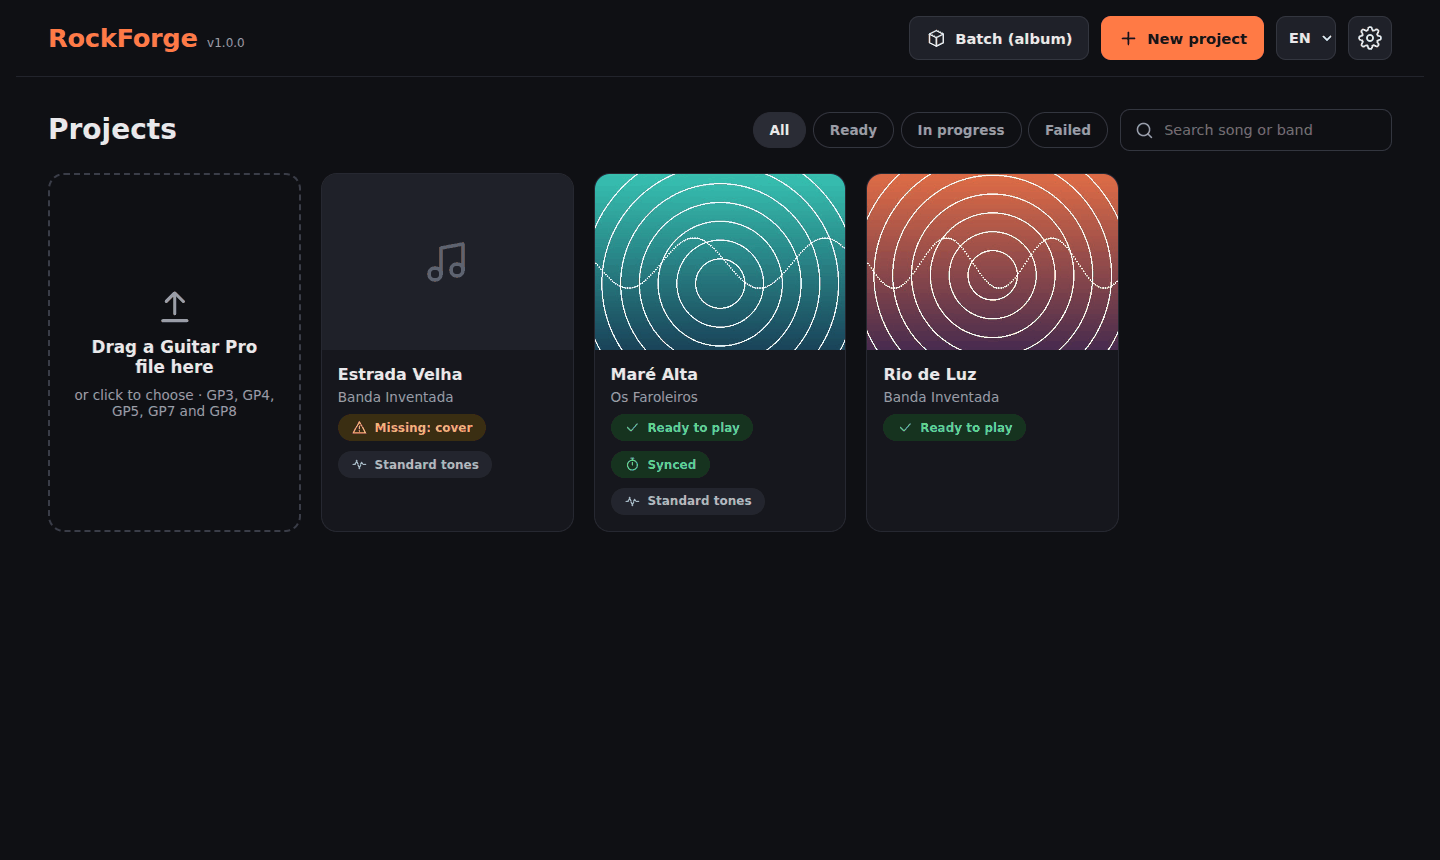
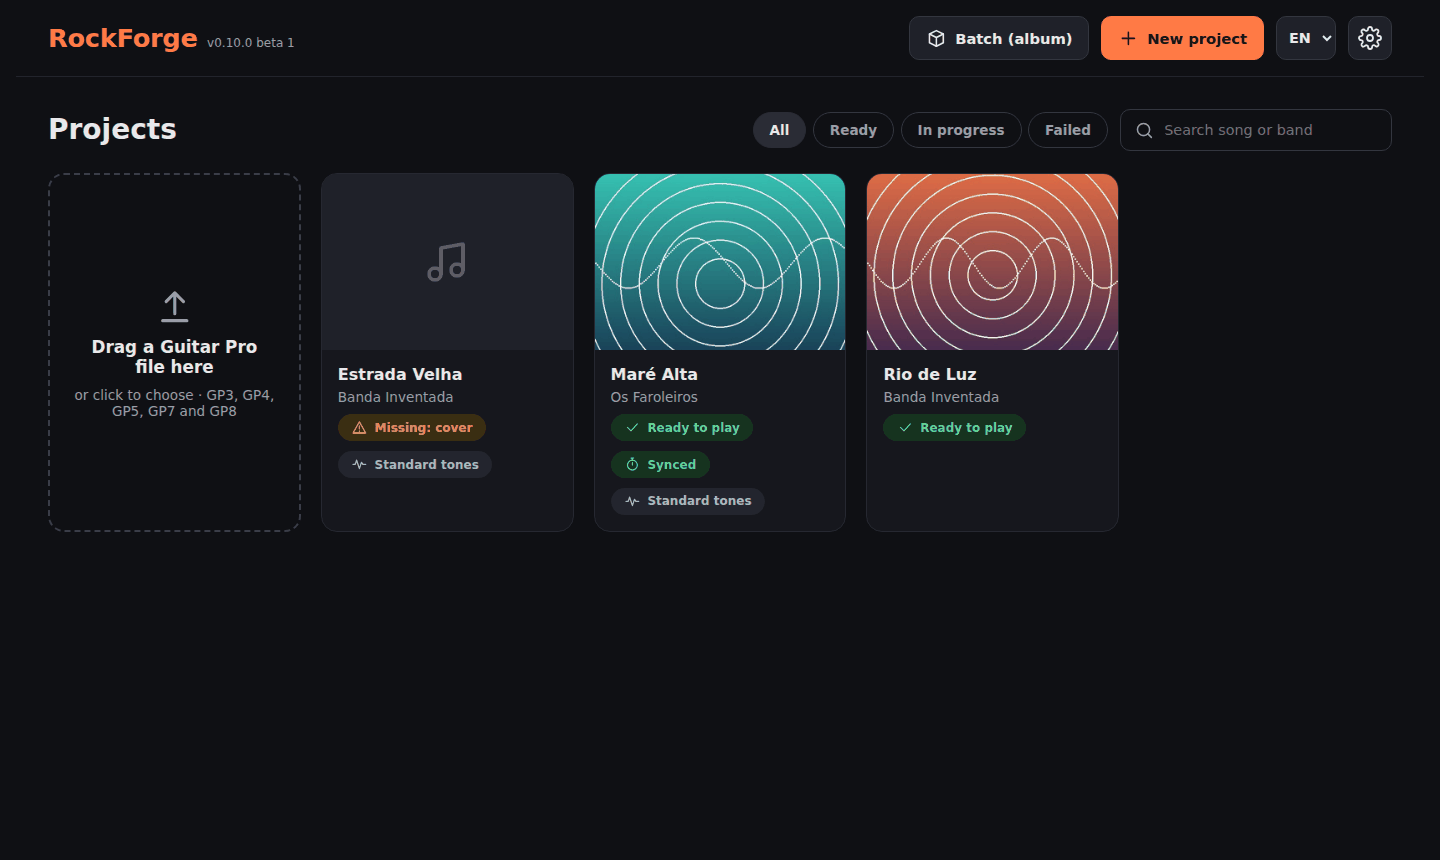
First public release is 0.10.0 beta 1, not 1.0.0
1.0.0 waits for more testing in the game and on a PC without Python.
- Version 0.10.0b1 (PEP 440) in pyproject and __version__; the
  installer says 0.10.0-beta.1, the release tag is v0.10.0-beta.1.
- The home page shows "v0.10.0 beta 1" instead of the bare "0.10.0b1".
- READMEs: say it is a beta, the version badge includes pre-releases,
  and links go to Releases (GitHub's /releases/latest skips
  pre-releases).
- CHANGELOGs, the bug-report placeholder, the TODO (mark the Release as
  pre-release) and the home-page screenshots follow.

Claude-Session: https://claude.ai/code/session_01GeAknYTYRLS4B4vyUVDiRo

diff --git a/web/app.js b/web/app.js
@@ -317,7 +317,8 @@ homeDrop.addEventListener('drop', e => {
   inp.dispatchEvent(new Event('change'));
 });
 fetch('/version').then(r => r.json()).then(d => {
-  document.getElementById('appVersion').textContent = 'v' + d.version;
+  // A pre-release reads "v0.10.0 beta 1", not the bare PEP 440 "0.10.0b1".
+  document.getElementById('appVersion').textContent = 'v' + d.version.replace(/b(\d+)$/, ' beta $1');
 }).catch(() => {});
 
 // ── Batch processing: several (GP, audio) pairs, created one job at a time ───

diff --git a/src/rockforge/__init__.py b/src/rockforge/__init__.py
@@ -3,4 +3,4 @@
 # major.minor.build.revision (unidade.decimal.centésima.milésima). Single source
 # of truth: the API (FastAPI `version` + `GET /version`) and the web UI header
 # read this. Bump the last part for a fix, the third for a feature.
-__version__ = "1.0.0"
+__version__ = "0.10.0b1"

diff --git a/README.pt.md b/README.pt.md
@@ -4,11 +4,12 @@
 
 Transforma um **ficheiro Guitar Pro** — ou o PDF ou uma imagem de uma tablatura, ou um link do
 Songsterr — e a **gravação** da música numa **música personalizada para o Rocksmith 2014 (CDLC)**:
-um `.psarc` jogável e um projeto do DLC Builder. Acerta as notas à gravação de ouvido, edita notas,
+um `.psarc` jogável e um projeto do DLC Builder. **Beta**: pronto a usar, ainda em testes antes
+da 1.0. Acerta as notas à gravação de ouvido, edita notas,
 tons e letra, e instala a música no jogo com um clique.
 
 [![Licença: MIT](https://img.shields.io/badge/licen%C3%A7a-MIT-blue)](LICENSE)
-[![Última versão](https://img.shields.io/github/v/release/F100Pilot/RockForge)](https://github.com/F100Pilot/RockForge/releases/latest)
+[![Última versão (beta)](https://img.shields.io/github/v/release/F100Pilot/RockForge?include_prereleases)](https://github.com/F100Pilot/RockForge/releases)
 [![CI](https://github.com/F100Pilot/RockForge/actions/workflows/ci.yml/badge.svg)](https://github.com/F100Pilot/RockForge/actions/workflows/ci.yml)
 
 [![Paga-me um café](https://img.shields.io/badge/Paga--me%20um%20caf%C3%A9-PayPal-0070ba?style=for-the-badge&logo=paypal&logoColor=white)](https://paypal.me/F100Pilot)
@@ -76,8 +77,8 @@ tons e letra, e instala a música no jogo com um clique.
 
 **Windows**
 
-1. Descarrega a versão mais recente em
-   [Releases](https://github.com/F100Pilot/RockForge/releases/latest) e extrai-a — ou
+1. Descarrega a versão mais recente (por agora, uma **beta**) em
+   [Releases](https://github.com/F100Pilot/RockForge/releases) e extrai-a — ou
    `git clone https://github.com/F100Pilot/RockForge.git`, para o `start.bat` a poder atualizar.
 2. Faz duplo clique no `start.bat`. A primeira vez instala o necessário (vários GB para a deteção
    de stems, letra e tom) e demora.

diff --git a/README.md b/README.md
@@ -4,11 +4,12 @@
 
 Turn a **Guitar Pro file** — or a PDF or picture of a tab, or a Songsterr link — and the song's
 **recording** into a **Rocksmith 2014 custom song (CDLC)**: a playable `.psarc` and a DLC Builder
-project. Line the notes up with the recording by ear, edit notes, tones and lyrics, and install the
+project. **Beta**: ready to use, still being tested before 1.0.
+Line the notes up with the recording by ear, edit notes, tones and lyrics, and install the
 song in the game with one click.
 
 [![Licence: MIT](https://img.shields.io/badge/licence-MIT-blue)](LICENSE)
-[![Latest release](https://img.shields.io/github/v/release/F100Pilot/RockForge)](https://github.com/F100Pilot/RockForge/releases/latest)
+[![Latest version (beta)](https://img.shields.io/github/v/release/F100Pilot/RockForge?include_prereleases)](https://github.com/F100Pilot/RockForge/releases)
 [![CI](https://github.com/F100Pilot/RockForge/actions/workflows/ci.yml/badge.svg)](https://github.com/F100Pilot/RockForge/actions/workflows/ci.yml)
 
 [![Buy me a coffee](https://img.shields.io/badge/Buy%20me%20a%20coffee-PayPal-0070ba?style=for-the-badge&logo=paypal&logoColor=white)](https://paypal.me/F100Pilot)
@@ -74,8 +75,8 @@ song in the game with one click.
 
 **Windows**
 
-1. Download the latest version from
-   [Releases](https://github.com/F100Pilot/RockForge/releases/latest) and extract it — or
+1. Download the latest version (currently a **beta**) from
+   [Releases](https://github.com/F100Pilot/RockForge/releases) and extract it — or
    `git clone https://github.com/F100Pilot/RockForge.git`, so `start.bat` can update it.
 2. Double-click `start.bat`. The first run installs what is needed (several GB for the
    stem/lyric/tone detection) and takes a while.

diff --git a/TODO.md b/TODO.md
@@ -186,7 +186,7 @@ documentados nas mensagens de commit, caso valha a pena ressuscitar alguma.
 - [x] Página inicial em inglês (`README.md`) e português (`README.pt.md`), com
   capturas de ecrã de músicas inventadas (`docs/media/`), emblemas e o botão
   PayPal; os README antigos passaram a `docs/TECHNICAL.md`/`docs/TECNICO.md`.
-- [x] `CHANGELOG.md`/`CHANGELOG.en.md` (versão 1.0.0), `CONTRIBUTING.md`,
+- [x] `CHANGELOG.md`/`CHANGELOG.en.md` (versão 0.10.0 beta 1 — a 1.0.0 fica para depois da beta), `CONTRIBUTING.md`,
   `SECURITY.md`, modelos de issues bilingues, `.github/FUNDING.yml`.
 - [x] Mensagens do `start.bat` em português e inglês.
 - [x] Histórico verificado: sem segredos, e-mails pessoais, áudio ou ficheiros
@@ -198,7 +198,8 @@ documentados nas mensagens de commit, caso valha a pena ressuscitar alguma.
 
 Os dois fóruns são em inglês, por isso os textos também. Antes de publicar:
 
-- [ ] Tornar o repositório público e criar uma *Release* no GitHub com o
+- [ ] Tornar o repositório público e criar a *Release* `v0.10.0-beta.1` no GitHub,
+  marcada como **pre-release** (a 1.0.0 fica para depois da beta), com o
   instalador / zip portátil (`py -3.11 build_exe.py --zip --installer`) — o
   `LICENSE`, `THIRD_PARTY_NOTICES.md` e `LEGAL.md` já vão dentro. Se o
   `ffmpeg.exe` for incluído, ver o ponto do ffmpeg acima.

diff --git a/CHANGELOG.en.md b/CHANGELOG.en.md
@@ -6,9 +6,10 @@ The changes in each version. Every entry is also in Portuguese, in `CHANGELOG.md
 
 ## [Unreleased]
 
-## [1.0.0] — 2026-10-14
+## [0.10.0 beta 1] — 2026-10-14
 
-First public version.
+First public version, in beta: ready to use, but waiting for more testing in the game and on
+a PC without Python before 1.0.0.
 
 ### Creating a project
 - Guitar Pro 3, 4, 5 and 7/8 (`.gp`) files: notes, frets, techniques, tempos, sections and lyrics

diff --git a/CHANGELOG.md b/CHANGELOG.md
@@ -6,9 +6,10 @@ As alterações de cada versão. As entradas também vão em inglês, no `CHANGE
 
 ## [Por lançar]
 
-## [1.0.0] — 2026-10-14
+## [0.10.0 beta 1] — 2026-10-14
 
-Primeira versão pública.
+Primeira versão pública, em beta: pronta a usar, mas à espera de mais testes no jogo e
+num PC sem Python antes da 1.0.0.
 
 ### Criar um projeto
 - Ficheiros Guitar Pro 3, 4, 5 e 7/8 (`.gp`): notas, trastes, técnicas, andamentos, secções e
